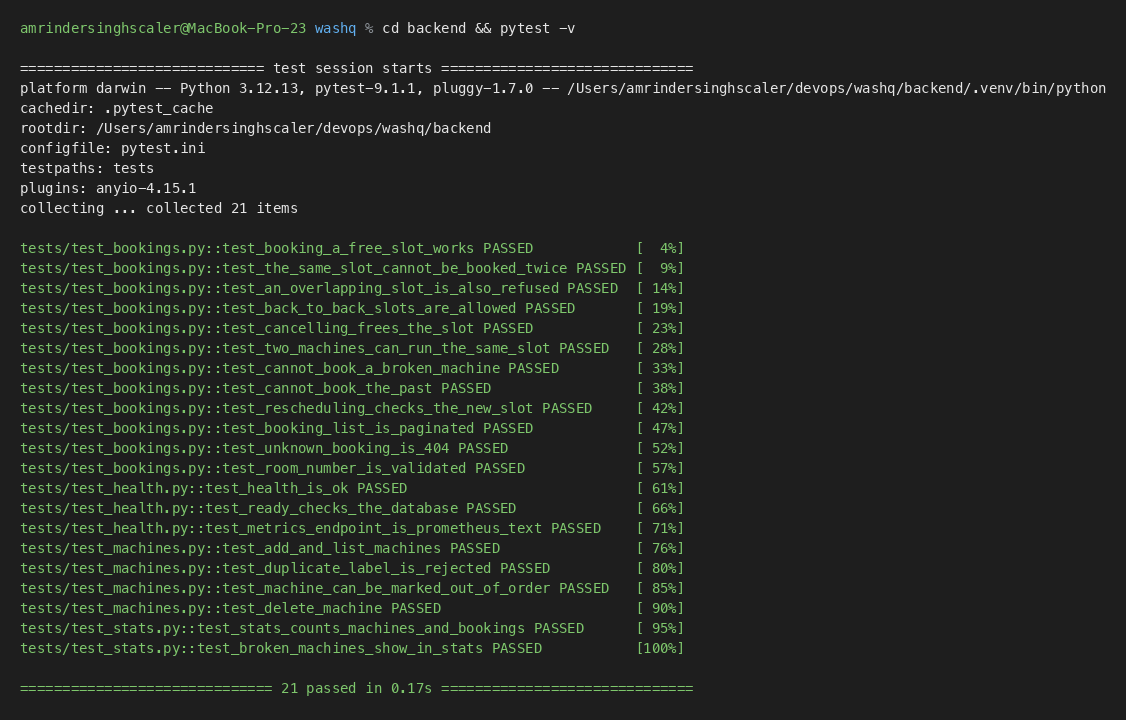
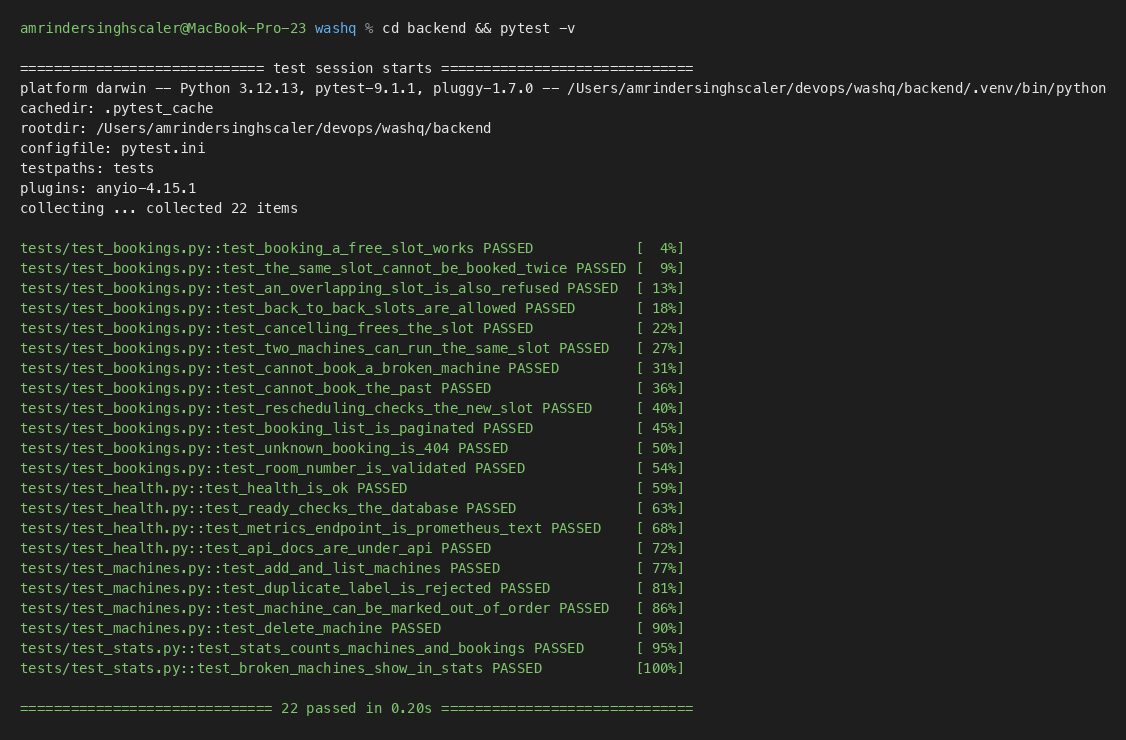
Bring the slides and evidence up to date with the current code
The deck said 21 tests and 19 resources and t3.medium, all of which
stopped being true over the last few changes. It is 22 tests, 24
resources since the EBS driver and its IRSA role went in, and
m7i-flex.large. The plan output is recaptured from an empty state,
which is exactly what anyone cloning the repo will see.

Also fixed the terraform slide, where the plan box ran past its edge
and sat on top of the note below it, and added a slide for the five
things that only showed up on real EKS.

diff --git a/README.md b/README.md
@@ -276,8 +276,8 @@ carries.
 | Internet gateway and route table | Public route out |
 | EKS cluster | Kubernetes 1.31 |
 | Managed node group | 2 to 4 `m7i-flex.large` workers |
-| Addons | vpc-cni, kube-proxy, coredns, metrics-server |
-| IAM | One role for the control plane, one for the nodes |
+| Addons | vpc-cni, kube-proxy, coredns, metrics-server, aws-ebs-csi-driver |
+| IAM | Roles for the control plane and the nodes, plus an IRSA role for the EBS driver |
 
 ```bash
 cd terraform
@@ -288,7 +288,7 @@ terraform apply
 aws eks update-kubeconfig --region ap-south-1 --name washq-cluster
 ```
 
-`terraform plan` reports 19 resources to add. The real output is in
+`terraform plan` reports 24 resources to add. The real output is in
 [`docs/evidence/05-terraform-plan.txt`](docs/evidence/05-terraform-plan.txt).
 
 **The node instance type has to be Free Tier eligible** if the account is
